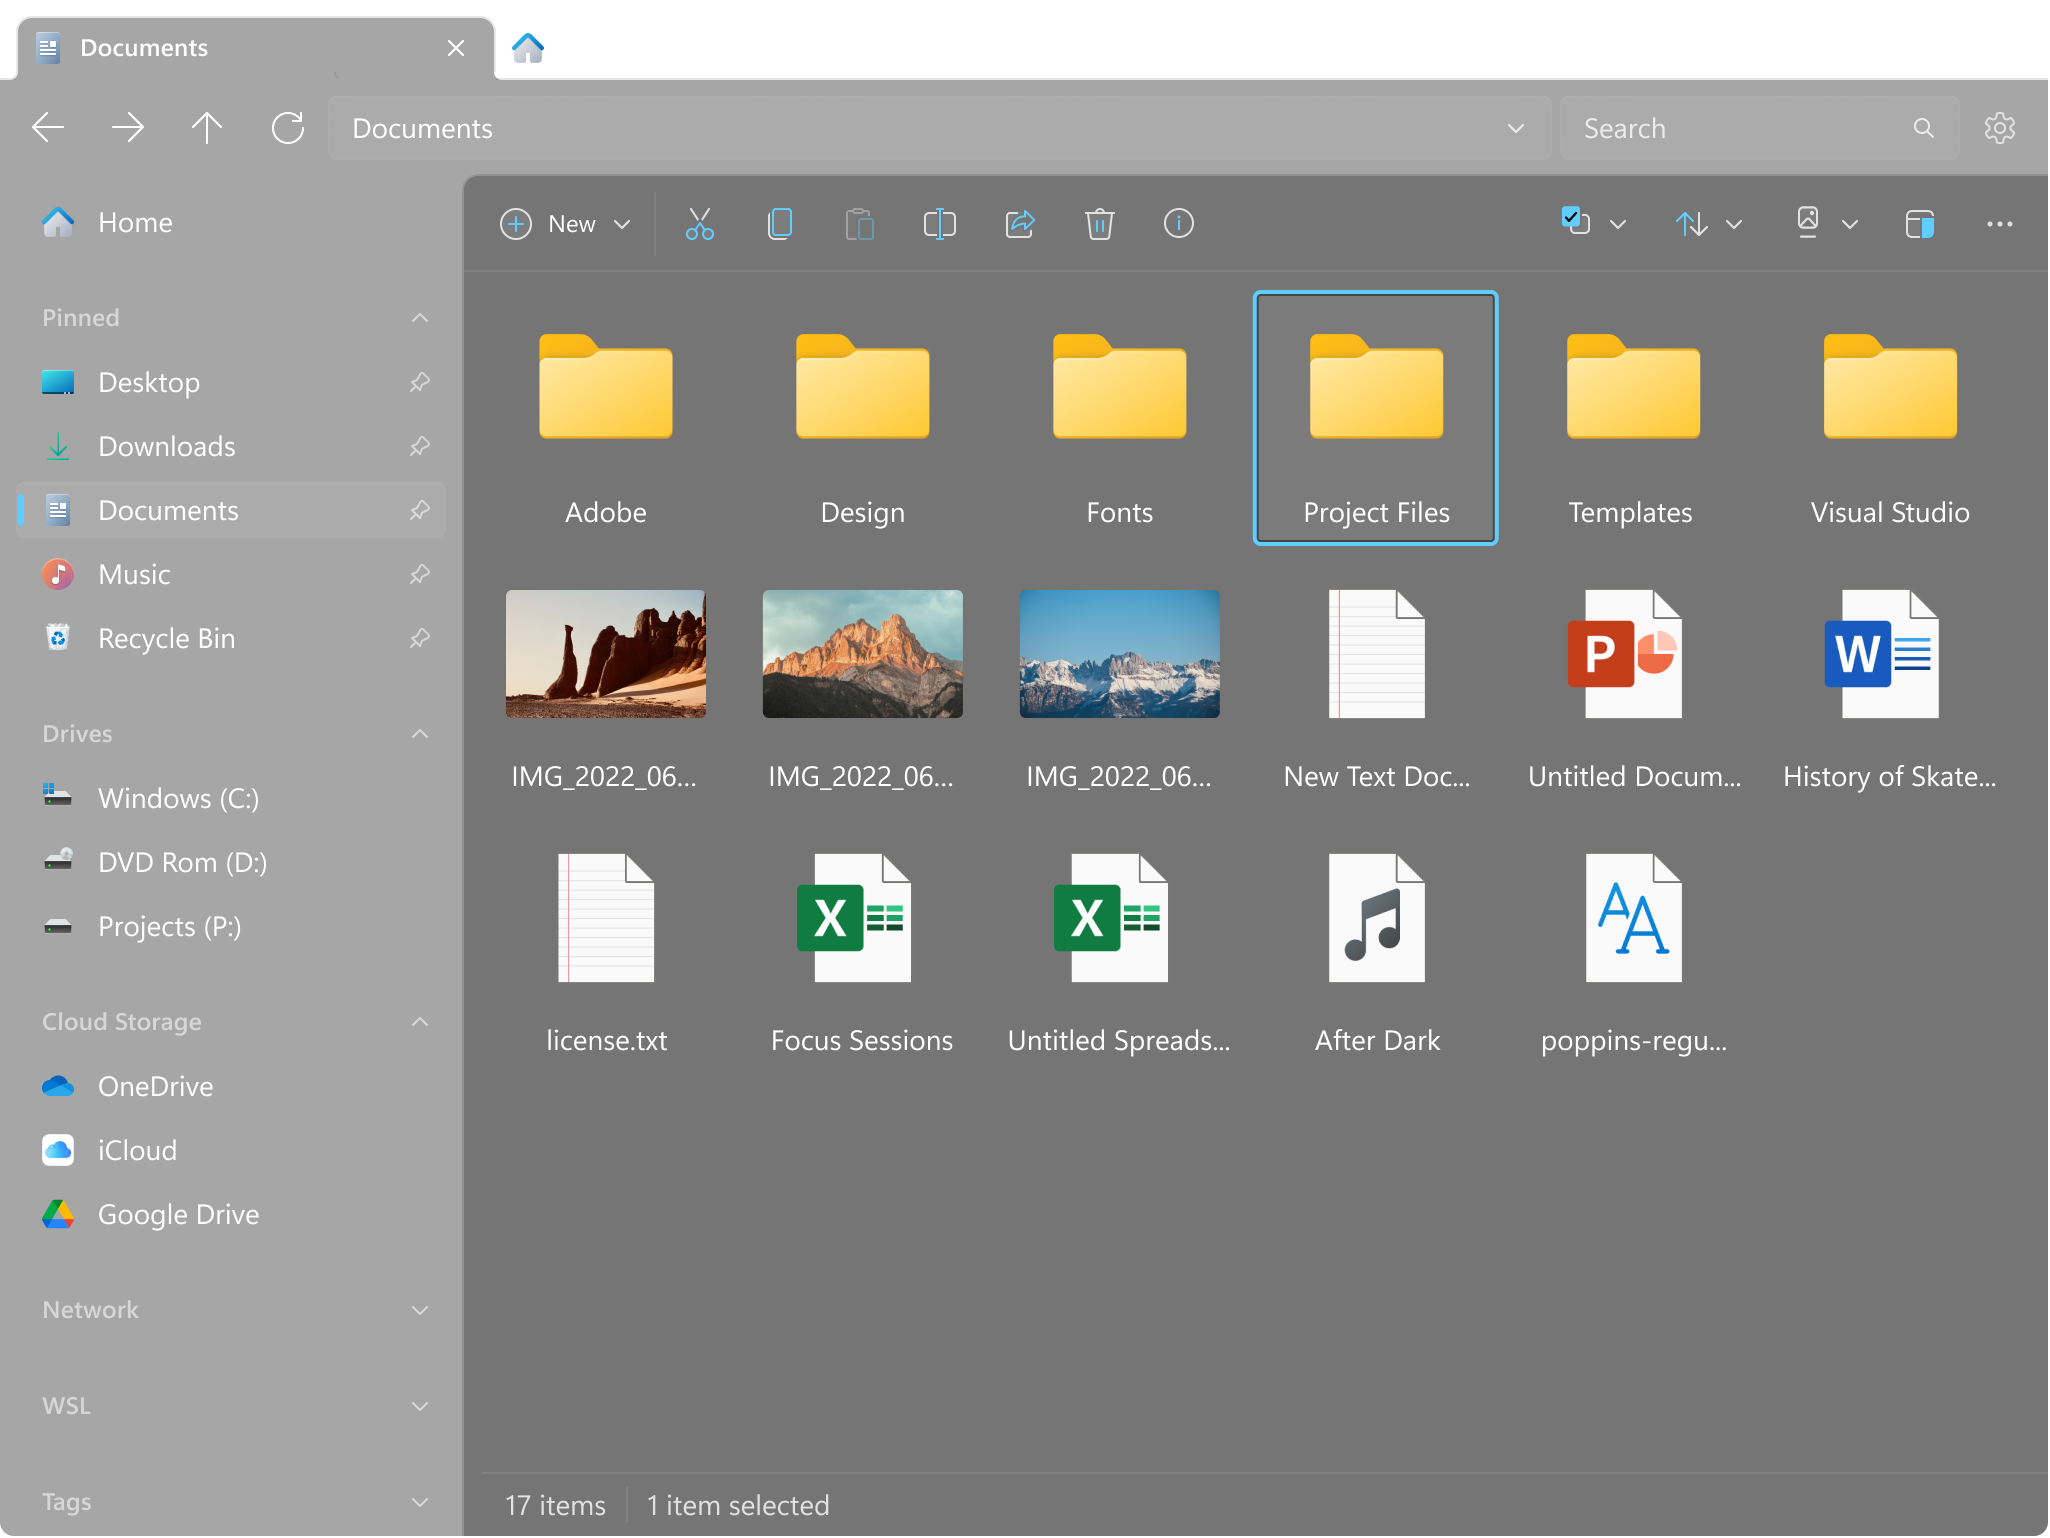
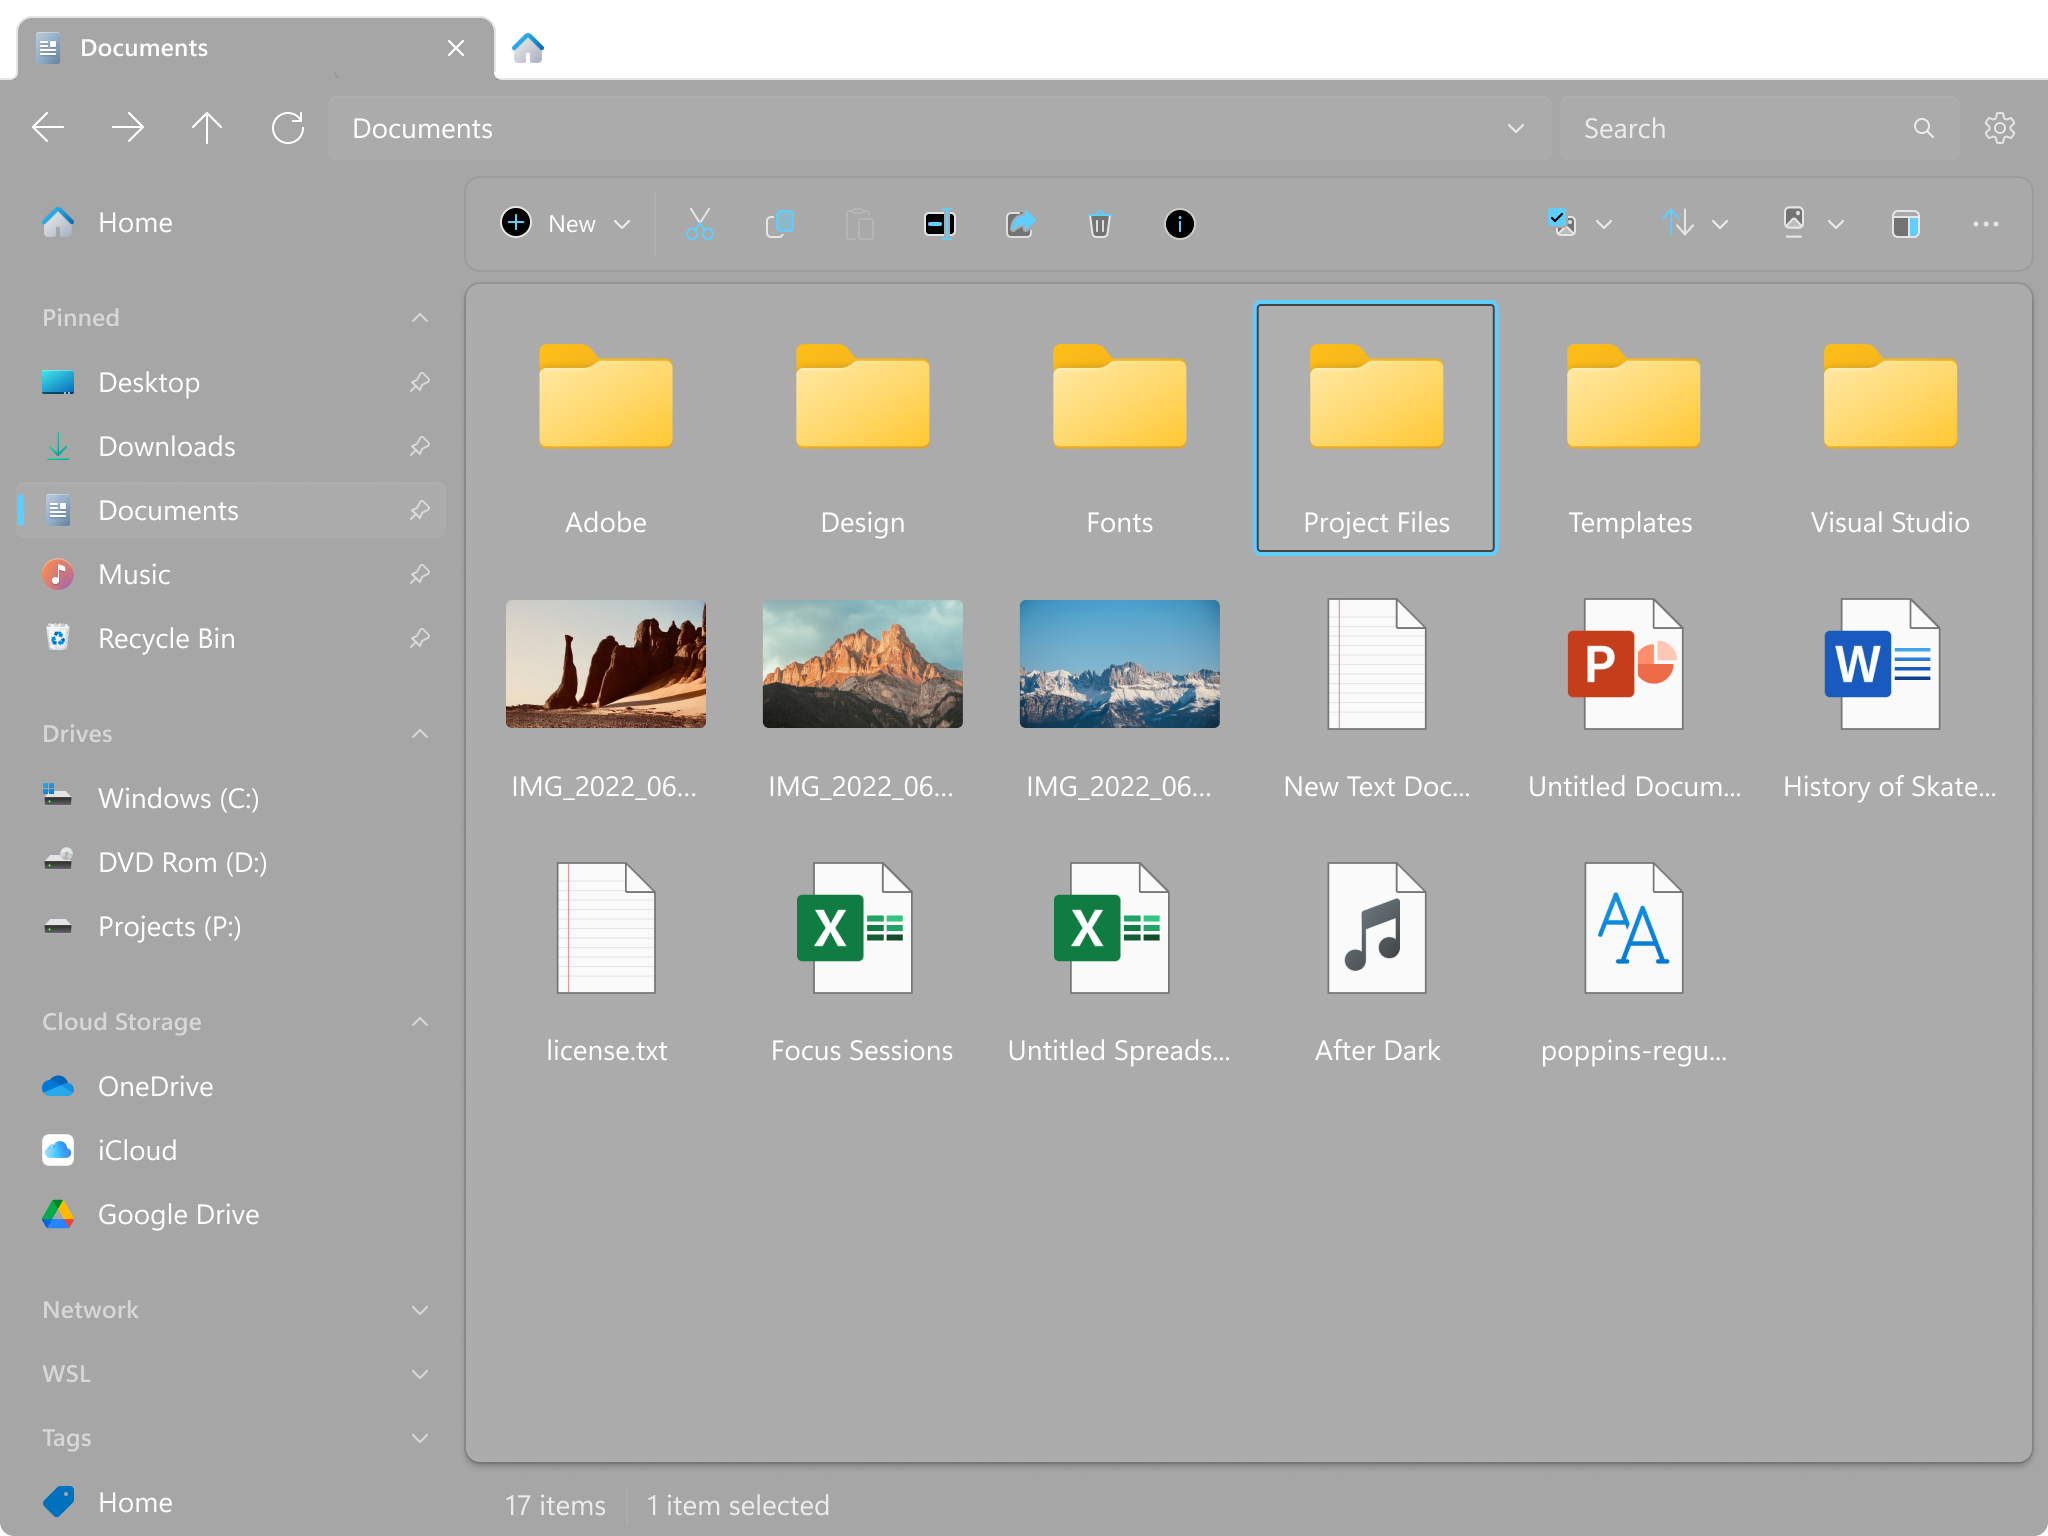
Updated

diff --git a/src/routes/blog/posts/v3-5/+page.md b/src/routes/blog/posts/v3-5/+page.md
@@ -1,0 +1,116 @@
+---
+title: Announcing Files v3.5
+description: Enjoy an updated design, network drive widget, enhanced dual-pane functionality, and improvements to crash analytics.
+thumbnail: /blog-resources/v3-5/Hero.png
+date: 5/8/2024
+author: files-community
+---
+
+We're excited to announce that starting today, Files v3.5 is now available. If you already have Files, there should be a notification on the toolbar to install the update. Otherwise, you can download Files for free from our [download page](/download/). You can also purchase Files on the [Microsoft Store](ms-windows-store://pdp/?ProductId=9nghp3dx8hdx&cid=FilesWebsite) or sponsor us on [GitHub](https://github.com/sponsors/yaira2) to help support the project.
+
+**TL;DR:** The latest update, Files v3.5, introduces a refreshed design, a new widget for network drives, improved multitasking with dual-pane enhancements, and better crash reports to help us improve stability, among others. Continue reading to learn more about these enhancements.
+
+## What's new in v3.5
+
+### Updated the design with rounded corners
+
+We’ve enhanced Files aesthetics by applying rounded corners to additional UI surfaces, including the toolbar, content area, and preview pane. This refinement improves the overall consistency and visual flow throughout the app.
+
+<figure>
+    <img src="/blog-resources/v3-5/UpdatedDesign.png" alt="Updated design with rounded corners" />
+</figure>
+
+Additionally, Dual Pane mode now features a more pronounced shadow on the active pane and expanded spacing between panes. These enhancements ensure that the active pane is more visually prominent.
+
+<figure>
+    <img src="/blog-resources/v3-5/UpdatedDualPaneDesign.png" alt="Updated design for Dual Pane" />
+</figure>
+
+
+### View dimensions when hovering over images
+
+When you hover over images, a tooltip will now conveniently show the dimensions. This enhancement greatly improves user experience by providing quick and easy access to size information.
+
+<figure>
+    <img src="/blog-resources/v3-5/ImageSizeTooltip.png" alt="Images tooltip" />
+</figure>
+
+
+### Open batch files in Notepad directly from the toolbar
+
+Upon selecting a batch (.bat) file, the toolbar will now present an Edit in Notepad option, streamlining the process of modifying your batch files directly without the need to dig through context menus.
+
+<figure>
+    <img src="/blog-resources/v3-5/EditInNotepad.png" alt="Edit in notepad toolbar button" />
+</figure>
+
+
+### Explore network locations on the Home Page
+
+We added a "Network Locations" widget on the home page. This feature is designed to help you navigate and organize network locations with greater efficiency.
+
+<figure>
+    <img src="/blog-resources/v3-5/NetworkLocations.png" alt="Home page widget for network locations" />
+</figure>
+
+
+### OneDrive sync status indicator
+
+Experience enhanced clarity when you hover over a file in OneDrive locations. The sync icon will now display a tooltip detailing the file’s current sync status, offering a more direct and informative snapshot of your data synchronization.
+
+
+### View duration for selected video files
+
+When selecting multiple video files, the Details Pane will now display the total duration.
+
+
+### New localizations added
+
+We’ve expanded our language support to now include Belarusian.  Our localizations are largely maintained by our dedicated community members. If you'd like to get involved, we invite you to join us on Crowdin https://crowdin.com/project/files-app.
+
+
+### Improvements to crash reporting and metrics 
+
+While enhancements in performance and stability typically occur behind the scenes, we often get a lot of questions about our work in this area and we wanted to share some highlights.
+
+- We've adopted Sentry for more robust crash reporting (shoutout to Sentry for their support of open-source projects), and we aim to extend its use to monitor performance metrics, ensuring Files gets faster with each update. 
+- Our main challenge with startup speed has been the absence of Native AOT in WinAppSdk. Fortunately, Microsoft is working to address this, and we hope to integrate these advancements later in the year.
+- We recently started a new effort to eliminate unnecessary dependencies and streamline app resources, effectively shrinking the app’s footprint on your device.
+
+
+## Changes and Improvements
+
+- Added an action to switch focus between panes
+- Added an "Edit in notepad" option to the right click context menu
+- Added a setting to configure the "Open in ide" button on the status bar
+- Added support for "Thin acrylic" system backdrop
+- Added support for running AHK files as admin
+- Opening the log location will now close the Settings Dialog when Files is the default file manager
+- Fixed an issue where a resize cursor was incorrectly shown at titlebar edges when Files was maximized
+- Fixed an issue where empty folders could not be compressed into an archive
+- Fixed an issue where it didn't work to switch between panes using a touch screen
+- Fixed an issue where text on the Actions page wasn't responsive on smaller screens
+- Fixed an issue where the focus was changed when quickly switching between tabs
+- Fixed an issue with launching programs from the Address Bar
+- Fixed an issue where search results would stop loading after switching between tabs
+- Fixed an issue where the Toolbar didn't display properly in High Contrast
+- Fixed an issue in Column View where the chevron didn't support High Contrast
+- Fixed an issue where the Files logo was displayed incorrectly in High Contrast
+- Fixed an issue where the app could crash when changing the theme
+- Fixed an issue where entering certain commands into the Address Bar would change the format
+- Fixed an issue with Nutstore cloud drive detection
+- Fixed an issue where certain keys couldn't be mapped to Actions
+- Fixed a potential crash when trying to locate the Libraries folder
+- Fixed a potential crash when clicking items in the Quick Access widget
+- Fixed a potential crash from occuring when deleting items
+
+
+### Conclusion
+
+As always, we appreciate your feedback and suggestions on how we improve Files. You can reach us through our GitHub issues page: https://github.com/files-community/Files/issues.
+
+Thank you for using Files! 😊
+
+---
+
+Download Files from our [download page](/download/) | Sponsor us on [GitHub](https://github.com/sponsors/yaira2)

diff --git a/src/routes/docs/customize-settings/appearance/+page.md b/src/routes/docs/customize-settings/appearance/+page.md
@@ -44,8 +44,10 @@ While there isn't an option in the settings UI, you can change the address bar, 
 | ----------------------------------- | ------------- |
 | `AppThemeBackgroundColor`           | `#00000000`   |
 | `AppThemeAddressBarBackgroundColor` | `#00000000`   |
+| `AppThemeToolbarBackgroundColor`    | `#00000000`   |
 | `AppThemeSidebarBackgroundColor`    | `#00000000`   |
 | `AppThemeFileAreaBackgroundColor`   | `#00000000`   |
+| `AppThemeInfoBackgroundColor`       | `#00000000`   |
 
 ## Custom fonts
 
@@ -63,8 +65,10 @@ The glass theme is best paired with the Acrylic backdrop material.
 | ----------------------------------- | ----------- |
 | `AppThemeBackgroundColor`           | `#00000000` |
 | `AppThemeAddressBarBackgroundColor` | `#00000001` |
+| `AppThemeToolbarBackgroundColor`    | `#00000001` |
 | `AppThemeSidebarBackgroundColor`    | `#00000001` |
 | `AppThemeFileAreaBackgroundColor`   | `#00000001` |
+| `AppThemeInfoPaneBackgroundColor`   | `#00000001` |
 
 ### Finder
 
@@ -74,8 +78,10 @@ The finder theme is based on the color scheme in Finder.
 | ----------------------------------- | --------- |
 | `AppThemeBackgroundColor`           | `#221d28` |
 | `AppThemeAddressBarBackgroundColor` | `#38343c` |
+| `AppThemeToolbarBackgroundColor`    | `#38343c` |
 | `AppThemeSidebarBackgroundColor`    | `#464449` |
 | `AppThemeFileAreaBackgroundColor`   | `#221d28` |
+| `AppThemeInfoPaneBackgroundColor`   | `#38343c` |
 
 ### Nord
 
@@ -83,9 +89,10 @@ The finder theme is based on the color scheme in Finder.
 | ----------------------------------- | ----------- |
 | `AppThemeBackgroundColor`           | `#FF1B1F26` |
 | `AppThemeAddressBarBackgroundColor` | `#2E3440`   |
+| `AppThemeToolbarBackgroundColor`    | `#2E3440`   |
 | `AppThemeSidebarBackgroundColor`    | `#2E3440`   |
 | `AppThemeFileAreaBackgroundColor`   | `#2E3440`   |
-
+| `AppThemeInfoPaneBackgroundColor`   | `#2E3440`   |
 
 ## Background image
 

diff --git a/src/routes/docs/customize-settings/actions/+page.md b/src/routes/docs/customize-settings/actions/+page.md
@@ -770,6 +770,13 @@ Opens the Command Palette
 ```
 
 
+### Edit in Notepad
+
+Opens the selected file in Notepad. This action is available for the following file extensions: `.ahk`, `.bat`, and `.cmd`.
+
+**Action name:** `EditInNotepad`
+
+
 ## Layouts
 
 ### Details View
@@ -1387,6 +1394,32 @@ Closes the right new pane
 
 ```json
 "Ctrl+Shift+W"
+```
+
+
+### Focus left pane
+
+Switches focus to the left pane
+
+**Action name:** `FocusLeftPane`
+
+**Default bindings:**
+
+```json
+"Ctrl+Shift+Left"
+```
+
+
+### Focus right pane
+
+Switches focus to the right pane
+
+**Action name:** `FocusRightPane`
+
+**Default bindings:**
+
+```json
+"Ctrl+Shift+Right"
 ```
 
 
